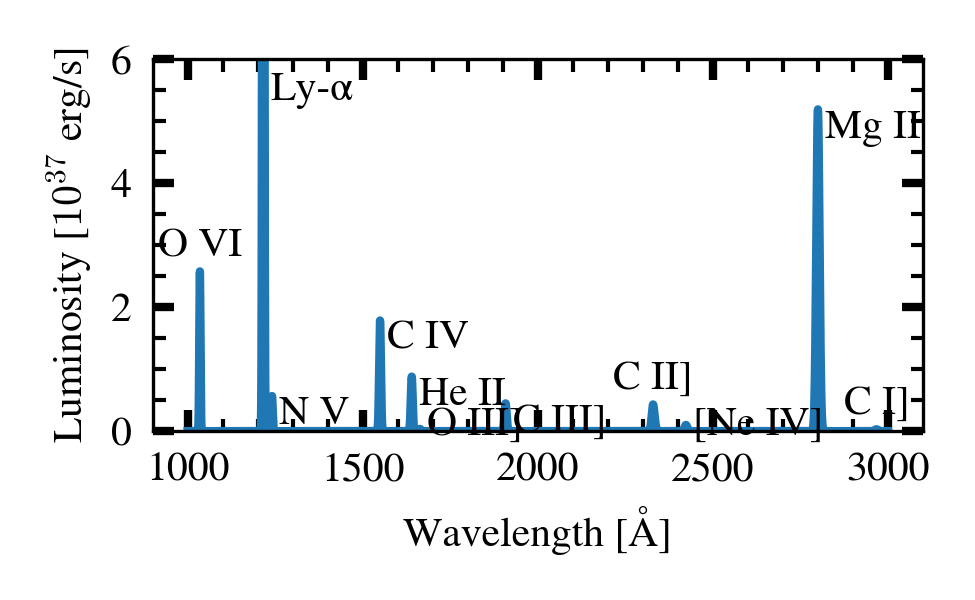
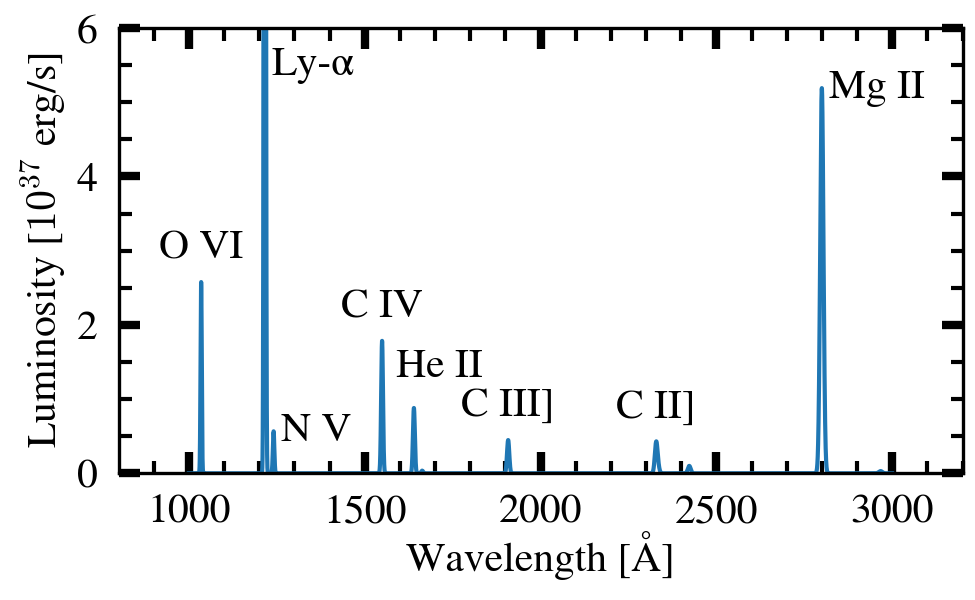
removed some labels, updated defaults

Changed region(s): [[0.0, 0.03, 1.0, 0.96]]

diff --git a/CSMmodel.py b/CSMmodel.py
@@ -31,11 +31,11 @@ def main(tstart, twidth, decay_rate, scale, model='Chev94', show=False):
 
     # Plot Chev94 spectrum at original scale
     chev_model = Chev94Model(scale=scale/CHEV94_2015cp_SCALE)
-    # chev_model.plot(0, save=True, show=show)
+    chev_model.plot(0, save=True, show=show)
 
     # Plot Chev94 model vs redshift
     csm_model = CSMmodel(tstart, twidth, decay_rate, scale=scale, model='Chev94')
-    csm_model.plot_redshift(save=True, show=show)
+    # csm_model.plot_redshift(save=True, show=show)
 
     # Plot CSM light curve
     fig, ax = plt.subplots(tight_layout=True)
@@ -266,7 +266,7 @@ class Chev94Model:
     def plot(self, t, save=True, show=False):
         """Plot spectral model."""
 
-        fig, ax = plt.subplots(tight_layout=True)
+        fig, ax = plt.subplots()
 
         wl = np.arange(W0, W1, DW)
         fl = self.gen_model(t)
@@ -279,12 +279,12 @@ class Chev94Model:
             peak_wl = float(self.line_wl[name])
             x = peak_wl + 20
             peak_fl = fl[np.argwhere(np.round(wl,1) == peak_wl)[0][0]]
-            y = max(min(peak_fl/1e37, max(plt.ylim()) - 0.2), min(plt.ylim()) + 0.4)
+            y = max(min(peak_fl/1e37, max(plt.ylim()) - 0.5), min(plt.ylim()) + 0.4)
             # Text alignment
-            va = 'top'
+            va = 'center'
             ha = 'left'
             # Ignore smaller lines which get in the way
-            if name == 'OV]' or name == 'SiII]':
+            if name in ['OV]', 'SiII]', 'OIII]', 'CI]', '[NeIV]']:
                 continue
             # Adjust names
             text = name
@@ -294,15 +294,24 @@ class Chev94Model:
             text = text.replace('V I', 'VI')
             text = text.replace('I V', 'IV')
             # Custom adjustments
-            if text == 'C II]' or text == 'C I]' or text == 'O VI':
+            if text in ['C II]', 'C I]', 'O VI', 'C IV', 'C III]']:
                 x = peak_wl
                 ha = 'center'
                 va = 'bottom'
-                y = peak_fl/1e37 + 0.1
-            plt.text(x, y, text, size=10, va=va, ha=ha)
+                y = peak_fl/1e37 + 0.2
+            elif text in ['He II', '[Ne IV]']:
+                x = peak_wl - 50
+                ha = 'left'
+                va = 'bottom'
+                y = peak_fl/1e37 + 0.3
+            ax.text(x, y, text, size=10, va=va, ha=ha)
 
-        plt.xlabel('Wavelength [Å]')
-        plt.ylabel('Luminosity [$10^{37}$ erg/s]')
+        ax.set_xlabel('Wavelength [Å]', labelpad=0)
+        ax.set_ylabel('Luminosity [$10^{37}$ erg/s]')
+
+        ax.set_xlim((800, 3200))
+
+        plt.tight_layout(pad=0.3)
 
         if save: 
             plt.savefig(Path('out/Chev94_spectrum.pdf'), dpi=300)
